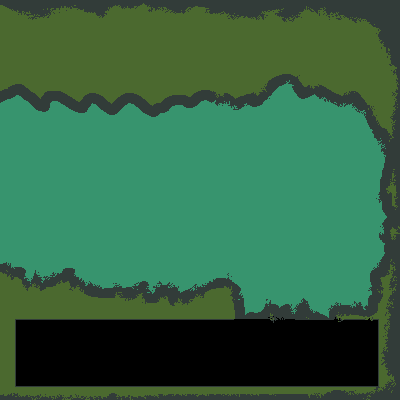
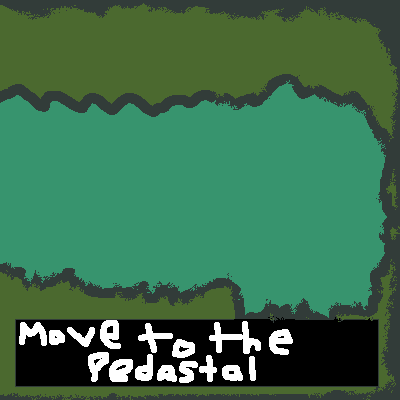
new levels

Changed region(s): [[0.03, 0.78, 0.75, 0.96]]

diff --git a/game.js b/game.js
@@ -7,13 +7,36 @@ gameport.appendChild(renderer.view);
 
 var stage = new PIXI.Container();
 
+var walker;
+
 PIXI.SCALE_MODES.DEFAULT = PIXI.SCALE_MODES.NEAREST;
 
 //Creating sprites
 var start_screen_bg = new PIXI.Sprite(
   PIXI.Texture.fromImage("startScreen.png") );
+var start_screen_button = new PIXI.Sprite(
+  PIXI.Texture.fromImage("startButton.png") );
 var background = new PIXI.Sprite(
   PIXI.Texture.fromImage("background.png") );
+var background2 = new PIXI.Sprite(
+  PIXI.Texture.fromImage("background2.png") );
+var background3 = new PIXI.Sprite(
+  PIXI.Texture.fromImage("background3.png") );
+var pedastal = new PIXI.Sprite(
+  PIXI.Texture.fromImage("pedastal.png") );
+var pedastal2 = new PIXI.Sprite(
+  PIXI.Texture.fromImage("pedastal.png") );
+var pedastal3 = new PIXI.Sprite(
+  PIXI.Texture.fromImage("pedastal.png") );
+var pedastal4 = new PIXI.Sprite(
+  PIXI.Texture.fromImage("pedastal.png") );
+var pedastal5 = new PIXI.Sprite(
+  PIXI.Texture.fromImage("pedastal.png") );
+
+
+var game1 = false;
+var game2 = false;
+var game3 = false;
 
 //add start screen to scene graph
 var start_screen = new PIXI.Container();
@@ -25,25 +48,53 @@ start_screen.addChild(start_screen_bg);
 start_screen_bg.position.x = -200;
 start_screen_bg.position.y = -200;
 
-//create game screen to be added shortly
+//add start screen background to start screen
+start_screen_bg.addChild(start_screen_button);
+start_screen_button.position.x = 30;
+start_screen_button.position.y = 325;
+
+//create game screen to be added to stage shortly
 var game_screen = new PIXI.Container();
-game_screen.position.x = 200;
-game_screen.position.y = 200;
+game_screen.position.x = 0;
+game_screen.position.y = 0;
 
 game_screen.addChild(background);
-background.position.x = -200;
-background.position.y = -200;
+background.position.x = 0;
+background.position.y = 0;
 
-//functon to switch screen when start screen is clicked on
+//backgrounds act as levels while pedastals are the goal to reach end
+background.addChild(pedastal);
+pedastal.position.x = 300;
+pedastal.position.y = 200;
+
+background2.addChild(pedastal2);
+pedastal2.position.x = 300;
+pedastal2.position.y = 50;
+
+background2.addChild(pedastal3);
+pedastal3.position.x = 300;
+pedastal3.position.y = 350;
+
+background3.addChild(pedastal4);
+pedastal4.position.x = 40;
+pedastal4.position.y = 315;
+
+background3.addChild(pedastal5);
+pedastal5.position.x = 270;
+pedastal5.position.y = 330;
+
+
+//functon to switch screen when start button is clicked on
 function mouseStartHandler(e)
 {
   stage.removeChild(start_screen);
   stage.addChild(game_screen);
+  game1 = true;
 }
 
 //call mousehandler when screen clicked on
-start_screen_bg.interactive = true;
-start_screen_bg.on('mousedown', mouseStartHandler);
+start_screen_button.interactive = true;
+start_screen_button.on('mousedown', mouseStartHandler);
 
 //code from Dr Palmer
 PIXI.loader
@@ -59,15 +110,139 @@ function ready()
     frames.push(PIXI.Texture.fromFrame("stealth_duder" + i + ".png"));
   }
 
-  var walker = new PIXI.extras.MovieClip(frames);
+  walker = new PIXI.extras.MovieClip(frames);
   walker.scale.x = 1.5;
   walker.scale.y = 1.5;
-  walker.position.x = -170;
-  walker.position.y = -70;
-  walker.animationSpeed = 1;
-  walker.play;
+  walker.position.x = 30;
+  walker.position.y = 130;
+  walker.animationSpeed = .1;
+  walker.play();
   game_screen.addChild(walker);
 
+}
+
+function keydownEventHandler(e)
+{
+  if(e.keyCode == 87) //W-key
+  {
+    walker.position.y -= 10;
+  }
+  if(e.keyCode == 83) //S-key
+  {
+    walker.position.y += 10;
+  }
+  if(e.keyCode == 65) //A-key
+  {
+    walker.position.x -= 10;
+  }
+  if(e.keyCode == 68) //D-key
+  {
+    walker.position.x += 10;
+  }
+}
+
+document.addEventListener('keydown', keydownEventHandler);
+
+setInterval(checkPostion, 300);
+
+//function checks walker to see if they are on top of pedastal to continue
+function checkPostion()
+{
+  //if game 1 is active and they are on top of pedastal, continue
+  if( game1 && walker.position.x > 270 && walker.position.x < 300 &&
+      walker.position.y > 150 && walker.position.y < 200 )
+  {
+    console.log("no way");
+    game_screen.removeChild(background);
+    game_screen.addChild(background2);
+
+    //couldn't get walker to show up on background 2 without remove/add
+    game_screen.removeChild(walker);
+    game_screen.addChild(walker);
+
+    //game1 is over game2 has begun
+    game1 = false;
+    game2 = true;
+    walker.position.x = 30;
+    walker.position.y = 130;
+  }
+
+  //if game 2 is active and they land on the upper pedastal they go back
+  if( game2 && walker.position.x > 270 && walker.position.x < 300 &&
+      walker.position.y > 40 && walker.position.y < 80  )
+  {
+    console.log("no way");
+    game_screen.removeChild(background2);
+    game_screen.addChild(background);
+
+    //couldn't get walker to show up on background 2 without remove/add
+    game_screen.removeChild(walker);
+    game_screen.addChild(walker);
+    //reset walker
+    walker.position.x = 30;
+    walker.position.y = 130;
+    //game1 is over game2 has begun
+    game2 = false;
+    game1 = true;
+
+  }
+
+  //if game 2 is active and they land on the lower pedastal they continue
+  if( game2 && walker.position.x > 270 && walker.position.x < 300 &&
+  walker.position.y > 325 && walker.position.y < 375 )
+  {
+    console.log("no way");
+    game_screen.removeChild(background2);
+    game_screen.addChild(background3);
+
+    //couldn't get walker to show up on background 2 without remove/add
+    game_screen.removeChild(walker);
+    game_screen.addChild(walker);
+    //reset walker
+    walker.position.x = 200;
+    walker.position.y = 15;
+    //game1 is over game2 has begun
+    game2 = false;
+    game3 = true;
+  }
+
+
+  //if game 2 is active and they land on the lower pedastal they continue
+  if( game3 && walker.position.x > 20 && walker.position.x < 60 &&
+  walker.position.y > 250 && walker.position.y < 375 )
+  {
+    console.log("no way");
+    game_screen.removeChild(background3);
+    game_screen.addChild(background);
+
+    //couldn't get walker to show up on background 2 without remove/add
+    game_screen.removeChild(walker);
+    game_screen.addChild(walker);
+    //reset walker
+    walker.position.x = 30;
+    walker.position.y = 130;
+    //game1 is over game2 has begun
+    game3 = false;
+    game1 = true;
+  }
+
+  if( game3 && walker.position.x > 270 && walker.position.x < 340 &&
+  walker.position.y > 280 && walker.position.y < 375 )
+  {
+    console.log("no way");
+    game_screen.removeChild(background3);
+    game_screen.addChild(background2);
+
+    //couldn't get walker to show up on background 2 without remove/add
+    game_screen.removeChild(walker);
+    game_screen.addChild(walker);
+    //reset walker
+    walker.position.x = 30;
+    walker.position.y = 130;
+    //game1 is over game2 has begun
+    game3 = false;
+    game2 = true;
+  }
 }
 
 function animate()
